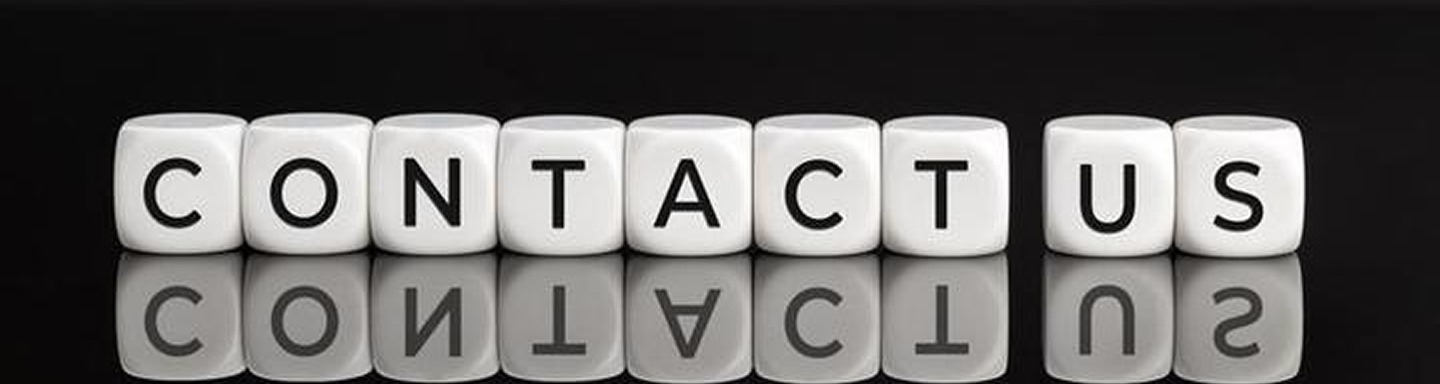
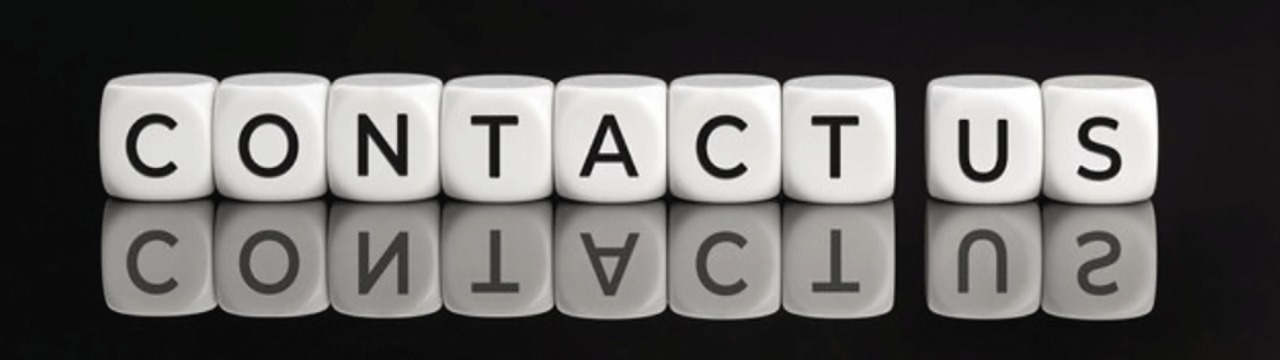
contact us is responsive

diff --git a/src/Component/HeroSection.jsx b/src/Component/HeroSection.jsx
@@ -1,7 +1,8 @@
 import assets from "../assets/assets";
 import { Users, CheckCircle } from "lucide-react";
 import TraderUsersBadge from "./TraderUsersBadge";
-import { motion } from "framer-motion";
+import { motion } from "framer-motion"; // eslint-disable-line
+import { Link } from "react-router-dom";
 
 export default function HeroSection() {
   return (
@@ -92,8 +93,8 @@ export default function HeroSection() {
 
           {/* ✅ Button + Badge (Mobile only) */}
           <div className="mt-6 flex items-center space-x-3 lg:hidden">
-            <a
-              href="#"
+            <Link
+              to="/#register"
               className="group relative overflow-hidden bg-white text-black px-6 py-3 rounded-lg font-semibold inline-block"
             >
               {/* Background fill on hover */}
@@ -103,7 +104,7 @@ export default function HeroSection() {
               <span className="relative z-10 group-hover:text-white transition-colors duration-300">
                 Start Now <span className="ml-2 ">→</span>
               </span>
-            </a>
+            </Link>
 
             {/* Mobile badge — smaller beside button */}
             <div className="scale-75">

diff --git a/src/Component/ContactUs.jsx b/src/Component/ContactUs.jsx
@@ -178,18 +178,18 @@ const ContactUs = () => {
   return (
     <div className="min-h-screen bg-[#eceae0] pb-12">
       {/* Contact Image Section */}
-      <motion.div
-        initial={{ opacity: 0, y: 30 }}
-        animate={{ opacity: 1, y: 0 }}
-        transition={{ duration: 0.8, ease: "easeOut" }}
-        className="w-full mb-10"
-      >
-        <img
-          src={assets.contact}
-          alt="Contact Us"
-          className="w-full h-[40vh] md:h-[60vh] object-cover shadow-2xl"
-        />
-      </motion.div>
+       <motion.div
+         initial={{ opacity: 0, y: 30 }}
+         animate={{ opacity: 1, y: 0 }}
+         transition={{ duration: 0.8, ease: "easeOut" }}
+         className="w-full mb-10 bg-[#0e0e0e]"
+       >
+         <img
+           src={assets.contact}
+           alt="Contact Us"
+           className="w-full h-[35vh] md:h-[60vh] object-contain md:object-cover shadow-2xl"
+         />
+       </motion.div>
 
       {/* Contact Information Sections */}
       <motion.div

diff --git a/src/Component/Navbar.jsx b/src/Component/Navbar.jsx
@@ -16,7 +16,7 @@ export default function Navbar() {
         duration: 0.8,
         ease: "easeOut",
       }}
-      className="fixed top-7 z-50 bg-[#1E4A44] shadow-xl border-gray-300 rounded-xl max-w-7xl mx-auto left-0 right-0 px-6 md:px-6 
+      className="fixed top-6 z-50 bg-[#1E4A44] shadow-xl rounded-xl max-w-7xl mx-auto left-0 right-0 px-6 md:px-6 
                  md:mx-auto md:left-0 md:right-0
                  max-md:max-w-sm max-md:mx-0 max-md:left-4 max-md:right-auto"
     >

diff --git a/src/Component/Footer.jsx b/src/Component/Footer.jsx
@@ -3,7 +3,7 @@ import assets from "../assets/assets";
 
 export default function Footer() {
   return (
-    <div className="bg-gray-100 font-poppins py-5 px-4 md:px-8">
+    <div className="bg-[#EDE8D0] font-poppins py-5 px-4 md:px-8">
       <footer
         className="max-w-7xl mx-auto text-gray-300 rounded-2xl border border-[#1f1f1f] shadow-[0_8px_25px_rgba(0,0,0,0.6)] p-12 md:p-16 relative overflow-hidden"
         style={{

diff --git a/src/Component/LoginPage.jsx b/src/Component/LoginPage.jsx
@@ -176,7 +176,7 @@ const LoginPage = () => {
   };
 
   return (
-    <div id="register" className="min-h-screen bg-[#eceae0] flex flex-col md:flex-row items-center justify-center px-6 py-12 gap-10">
+    <div id="register" className="min-h-screen bg-[#EDE8D0] flex flex-col md:flex-row items-center justify-center px-6 py-12 gap-10">
       
       {/* LEFT SECTION */}
       <motion.div
